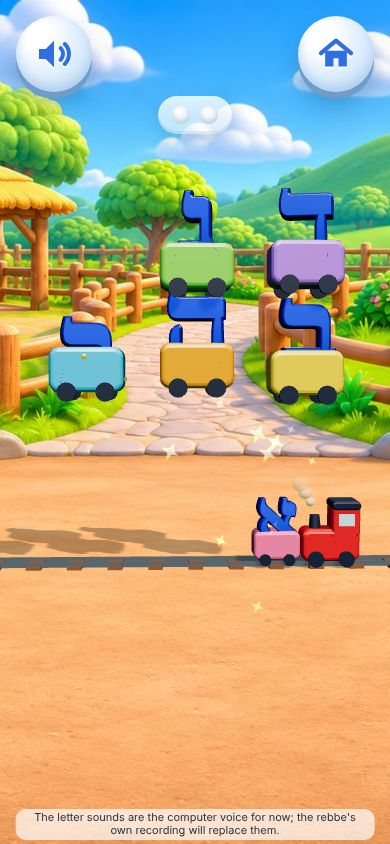
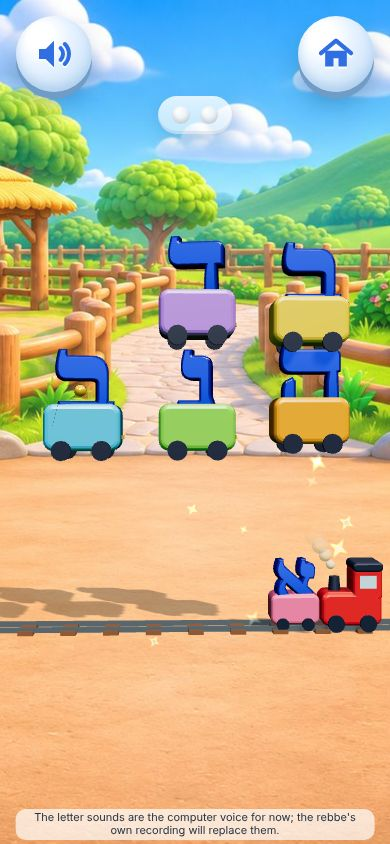
Kriyah train: bigger, clearer letters on a phone (review fix)
Claude-Session: https://claude.ai/code/session_01GJ5Wb7t89LF21gad8CeRqK

diff --git a/v2/app/k-kriyah/games/train.js b/v2/app/k-kriyah/games/train.js
@@ -28,12 +28,12 @@ export default function setup(E, { struggled, unit }) {
   let P = false, S = 1, slotX = [], homes = [], busy = true, enabled = false, drag = null, grab = new THREE.Vector3(), help = struggled, wrong = 0, wrongInRow = 0, resolveRound = null, gaps = null, rolling = false;
   const slotPos = i => new THREE.Vector3(slotX[i], 0, .2);
   E.onLayout(p => { P = p; S = p ? .5 : 1;
-    const lx = p ? 1.68 : 4.6, step = p ? .55 : 1.22;   /* on a phone the whole train fits the width */ loco.position.set(lx, 0, .2); loco.scale.setScalar(S); track.scale.set(1, 1, S); track.position.z = .2;
+    const lx = p ? 1.85 : 4.6, step = p ? .62 : 1.22;   /* on a phone the whole train fits the width */ loco.position.set(lx, 0, .2); loco.scale.setScalar(S); track.scale.set(1, 1, S); track.position.z = .2;
     slotX = ORDER.map((_, i) => lx - (p ? .67 : 1.35) - i * step);
     homes = ORDER.map((_, i) => p ? new THREE.Vector3(1.3 - (i % 3) * 1.3, i < 3 ? 3.3 : 2.05, .6) : new THREE.Vector3(3.0 - i * 1.3, 0, 3.9));   /* all inside the screen: on a phone, two rows above the train */   /* waiting on the grass in front of the track */
-    cars.forEach(c => c.userData.letter.scale.setScalar(p ? 1.35 : 1));   /* bigger letters on a phone */
+    cars.forEach(c => c.userData.letter.scale.setScalar(p ? 1.45 : 1));   /* much bigger letters on a phone (reviewer: Kaf's dot hardly showed) */
     cars.forEach(c => { c.scale.setScalar(c.userData.on ? S : (p ? .75 : .8)); if (c.userData.on) c.position.copy(slotPos(c.userData.slot)); else if (c !== drag) c.position.copy(homes[c.userData.home ?? c.userData.i]); });
-    if (p) { E.camBase.set(0, 2.3, 11); E.camTarget.set(0, 1.8, 0); } else { E.camBase.set(0, 2.7, 10.2); E.camTarget.set(0, 1.5, 0); }
+    if (p) { E.camBase.set(0, 2.4, 10.6); E.camTarget.set(0, 2.5, 0); } else { E.camBase.set(0, 2.7, 10.2); E.camTarget.set(0, 1.5, 0); }
   });
   E.onFrame(t => {
     puffs.forEach((p, i) => { const k = ((t * .8 + i / 4) % 1); p.position.set(-.35 - k * .5, 1.4 + k * .9, 0); p.scale.setScalar(.6 + k * 1.2); p.material.opacity = .8 * (1 - k); });
